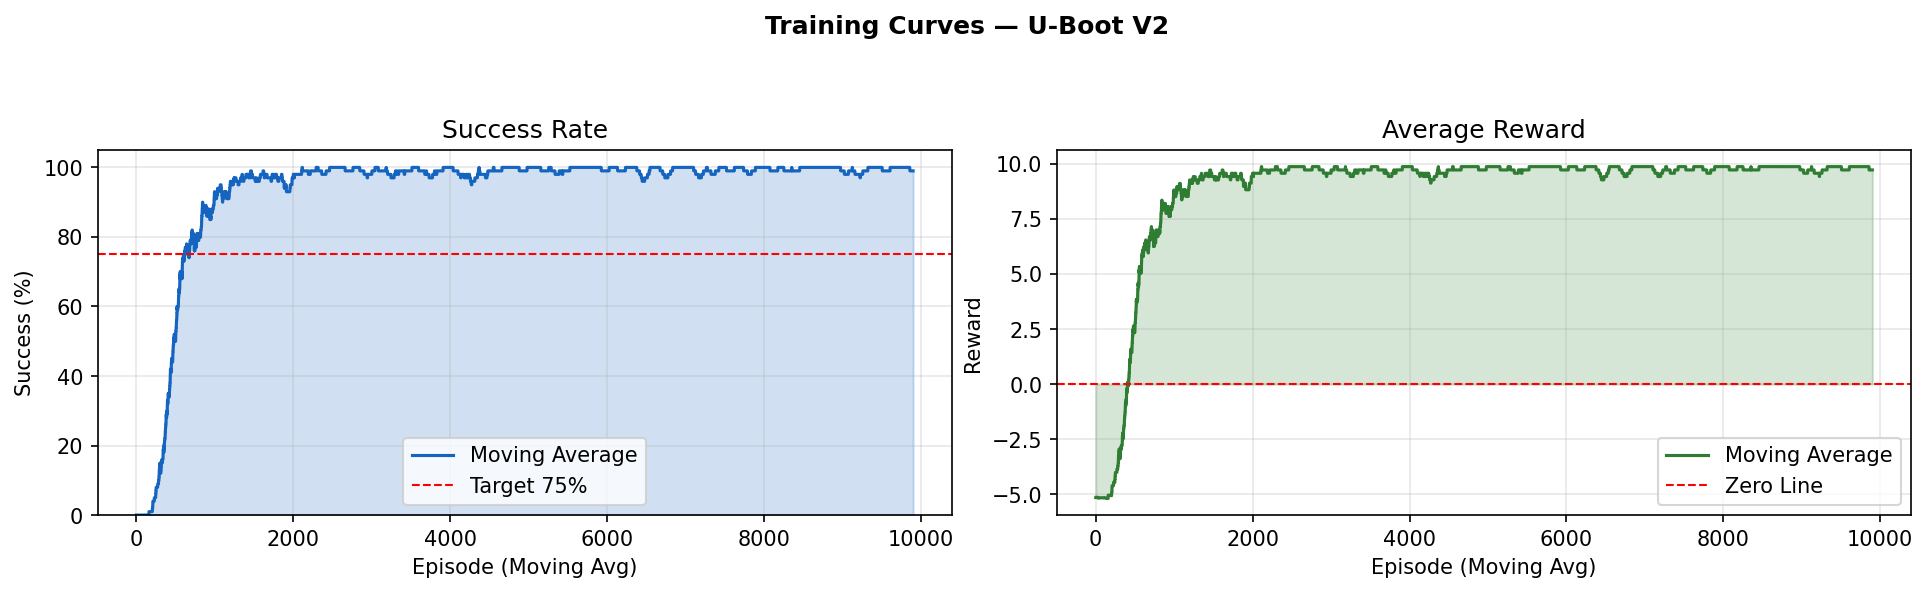
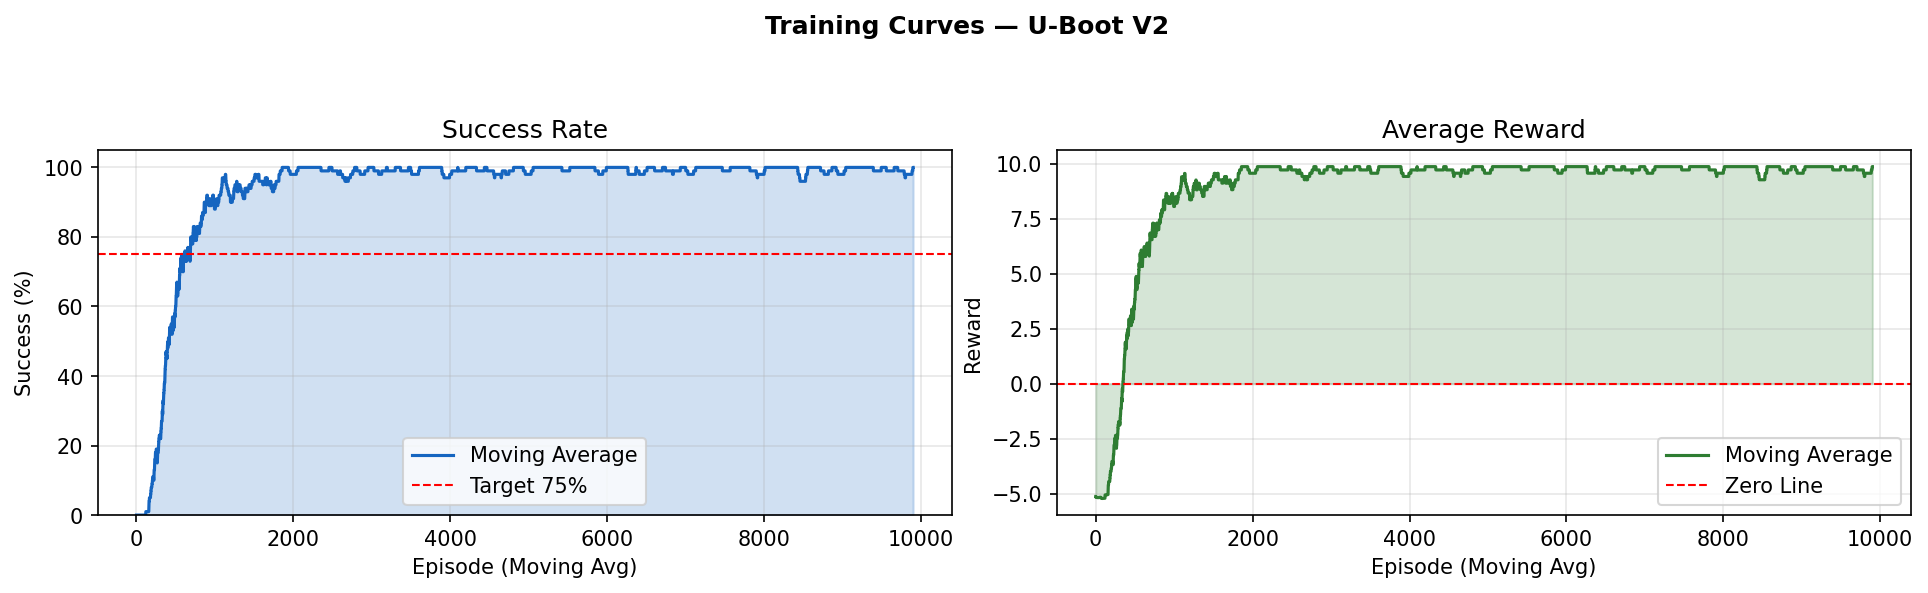
animation repair v2

diff --git a/utils/animation.py b/utils/animation.py
@@ -4,7 +4,7 @@ import matplotlib.animation as animation
 from matplotlib.gridspec import GridSpec
 import numpy as np
 
-from env.uboat_env import make_base_env
+from env.uboat_env import make_env, make_base_env
 from env.wrappers import ObsWrapper, RewWrapper, FuelWrapper
 from env.map_generator import generate_map
 
@@ -24,21 +24,14 @@ ICON_STYLE = {
 }
 
 
-def draw_map(ax):
+def draw_map(ax, grid_map):
     """
     Draws the static grid map on the given Matplotlib axes.
 
-    Generates a fixed map using ``generate_map`` with a constant seed,
-    then renders each cell as a colored rectangle and overlays the
-    corresponding icon symbol for special cells (mines, goal, start).
-
     Args:
         ax (matplotlib.axes.Axes): Axes object on which the map is drawn.
-            All previous content on the axes is preserved; new patches and
-            text artists are added on top.
+        grid_map (list[str]): The grid map to draw (same one used for the episode).
     """
-    static_map = generate_map(grid=GRID, density=0.15, seed=42)
-    
     ax.set(
         xlim=(-0.5, GRID - 0.5),
         ylim=(GRID - 0.5, -0.5),
@@ -55,7 +48,7 @@ def draw_map(ax):
         
     for r in range(GRID):
         for c in range(GRID):
-            cell_char = static_map[r][c]
+            cell_char = grid_map[r][c]
             ax.add_patch(
                 plt.Rectangle(
                     (c - 0.5, r - 0.5), 1, 1,
@@ -75,87 +68,85 @@ def draw_map(ax):
                 )
 
 
-def get_path(agent, idx=0):
+def get_path(agent, seed=None):
     """
     Runs a single episode with the given agent and records the trajectory.
 
-    Creates a fresh environment for each call (random seed), temporarily
-    raises the agent's exploration rate to ``0.15`` to introduce slight
-    stochasticity, and collects ``(row, col, success, failure)`` tuples
-    for every step until the episode ends or 60 steps are reached.
+    Uses make_env() with the given seed so the map is consistent with
+    what the agent learned. The wrapper order matches training exactly:
+    ObsWrapper -> RewWrapper -> FuelWrapper.
 
     Args:
         agent: Trained agent exposing an ``act(obs)`` method and an ``eps``
             attribute for the exploration rate.
-        idx (int, optional): Unused index kept for call-site consistency
-            when generating multiple paths. Defaults to 0.
+        seed (int, optional): Map seed. If None, a random seed is used.
 
     Returns:
-        list[tuple[int, int, bool, bool]]: Sequence of
-            ``(row, col, success, failure)`` tuples representing the
-            agent's trajectory. The first element is the starting position;
-            ``success`` and ``failure`` are ``True`` only on the terminal step.
+        tuple: (path, grid_map) where path is a list of
+            (row, col, success, failure) tuples and grid_map is the map
+            used in this episode (for drawing).
     """
-    base = make_base_env(seed=random.randint(0, 9999))
-    env = ObsWrapper(FuelWrapper(RewWrapper(base)))
-    
+    # FIX: use make_env() so the wrapper stack matches training exactly
+    # (ObsWrapper -> RewWrapper -> FuelWrapper)
+    env = make_env(seed=seed)
+    # Grab the map that was generated for this episode so we can draw it
+    grid_map = generate_map(grid=GRID, density=0.15, seed=seed)
+
     obs, _ = env.reset()
-    
+
     original_eps = getattr(agent, 'eps', 0.0)
-    agent.eps = 0.15
-    
-    raw_state = base.unwrapped.s
+    agent.eps = 0.0  # greedy during animation — show what the agent learned
+
+    base_env = env.unwrapped
+    raw_state = base_env.s
     path = [(raw_state // GRID, raw_state % GRID, False, False)]
-    
-    for _ in range(60): 
+
+    for _ in range(60):
         action = agent.act(obs)
         obs, reward, terminated, truncated, _ = env.step(action)
-        
-        raw_state = base.unwrapped.s
+
+        raw_state = base_env.s
         success = terminated and reward >= 5.0
-        failure = terminated and not success
-        
+        failure = (terminated and not success) or truncated
+
         path.append((raw_state // GRID, raw_state % GRID, success, failure))
-        
+
         if terminated or truncated:
             break
-            
+
     agent.eps = original_eps
     env.close()
-    return path
+    return path, grid_map
 
 
-def run_animation(agent, n=6):
+def run_animation(agent, n=6, seed=None):
     """
     Generates and displays an animated visualization of ``n`` agent missions.
 
-    Collects trajectory paths by running the agent through ``n`` independent
-    episodes, then renders a looping Matplotlib animation that shows:
-
-    - The submarine marker moving step-by-step along the recorded path.
-    - A color-coded trail fading behind the agent.
-    - A live status panel (mission index, step count, position, fuel bar,
-    torpedo bar, and legend).
-    - An overlay message (``"CONVOY SUNK!"`` or ``"U-BOOT SUNK!"``) at
-    the end of each mission.
-
-    Missions cycle automatically: after a short hold the map is redrawn
-    and the next mission begins.
+    All missions use the same seed (and therefore the same map) as training
+    so the agent navigates terrain it actually learned.
 
     Args:
         agent: Trained agent used to generate paths via ``get_path``.
             Must expose ``act(obs)`` and ``eps`` attributes.
         n (int, optional): Number of missions to generate and animate.
             Defaults to 6.
+        seed (int, optional): Map seed shared with training. All missions
+            reuse this seed so the map is consistent. If None, a single
+            random seed is chosen and reused for all missions.
 
     Returns:
         matplotlib.animation.FuncAnimation: The active animation object.
-            Keep a reference to this object to prevent garbage collection
-            while the window is open.
     """
+    if seed is None:
+        seed = random.randint(0, 9999)
+
     print(f"Generating {n} mission paths...")
-    paths = [get_path(agent, i) for i in range(n)]
-    
+    # FIX: all missions use the same seed — same map the agent was trained on
+    results = [get_path(agent, seed=seed) for _ in range(n)]
+    paths = [r[0] for r in results]
+    maps  = [r[1] for r in results]  # all identical (same seed), but kept per-mission for clarity
+
     for i, p in enumerate(paths):
         status = "SUCCESS" if p[-1][2] else "SUNK"
         print(f"  Mission {i+1}: {len(p)} steps -> {status}")
@@ -170,7 +161,7 @@ def run_animation(agent, n=6):
     for s in ax_info.spines.values():
         s.set_visible(False)
         
-    draw_map(ax_map)
+    draw_map(ax_map, maps[0])
 
     marker_sub, = ax_map.plot([], [], "s", ms=22, color="#FF5722", mec="white", mew=2, zorder=5)
     label_u = ax_map.text(0, 0, "U", ha="center", va="center", fontsize=11, color="white", fontweight="bold", zorder=6, visible=False)
@@ -197,37 +188,29 @@ def run_animation(agent, n=6):
     }
 
     def update(_):
-        """
-        Frame update callback for the FuncAnimation loop.
-
-        Advances the current mission by one step per call. When the path is
-        exhausted, a hold counter delays the transition before resetting to
-        the next mission and redrawing the map. On terminal steps, the result
-        overlay is shown and the step index is pinned to the end of the path
-        so the overlay persists during the hold period.
-
-        Args:
-            _ : Frame index supplied by FuncAnimation (unused).
-
-        Returns:
-            list: Matplotlib artists that were modified, enabling blitting
-                if supported by the backend.
-        """
         m_idx = state["mission_idx"]
         s_idx = state["step_idx"]
+
         path = paths[m_idx]
-        
+
         if s_idx >= len(path):
             state["hold_frames"] += 1
             if state["hold_frames"] > 12: 
+                # --- RESET PARA LA SIGUIENTE MISIÓN ---
                 state["mission_idx"] = (m_idx + 1) % n
                 state["step_idx"] = 0
                 state["hold_frames"] = 0
                 
+                # 1. Escondemos el cartel de resultado
                 text_result.set_visible(False)
                 text_result.get_bbox_patch().set_alpha(0)
-                draw_map(ax_map) 
+                
+                # 2. Limpiamos solo los datos de la estela y el submarino
+                # NO USAMOS ax_map.cla() para no borrar los artistas
                 line_trail.set_data([], [])
+                marker_sub.set_data([], [])
+                label_u.set_visible(False) 
+
             return [marker_sub, label_u, line_trail, text_result, title_text] + info_texts
 
         r, c, success, failed = path[s_idx]

diff --git a/env/wrappers.py b/env/wrappers.py
@@ -125,8 +125,11 @@ class RewWrapper(RewardWrapper):
                 modified reward.
         """
         obs, reward, terminated, truncated, info = self.env.step(action)
-        
-        if terminated:
+
+        # If FuelWrapper already set a penalty (fuel depleted), respect it
+        if info.get("fuel_depleted"):
+            new_reward = -2.0
+        elif terminated:
             if reward == 1.0:
                 new_reward = 10.0
             else:
@@ -137,9 +140,14 @@ class RewWrapper(RewardWrapper):
         return obs, new_reward, terminated, truncated, info
 
 
-class FuelWrapper(ActionWrapper):
+# FIX: inherit from Wrapper instead of ActionWrapper.
+# ActionWrapper.step() already calls self.action() internally, so inheriting
+# from it and also calling self.action() manually inside step() caused the
+# action to be transformed TWICE — the agent learned on transitions that never
+# actually happened, producing a garbage Q-table.
+class FuelWrapper(Wrapper):
     """
-    Action wrapper that introduces a fuel constraint for the agent.
+    Wrapper that introduces a fuel constraint for the agent.
 
     When fuel drops below 20% of its maximum value, upward (0) or leftward (3)
     movement actions are randomly redirected to downward (1) or rightward (2),
@@ -158,20 +166,10 @@ class FuelWrapper(ActionWrapper):
         self.max_fuel = fuel
         self.fuel = fuel
 
-    def action(self, action):
-        """
-        Modifies the action when fuel is critically low.
-
-        Args:
-            action (int): Original action selected by the policy.
-
-        Returns:
-            int: Possibly redirected action (1 or 2) if fuel is low and the
-                original action was 0 or 3; otherwise the original action
-                unchanged.
-        """
-        if self.fuel <= self.max_fuel * 0.2 and action in (0, 3): 
-            return random.choice([1, 2]) 
+    def _maybe_redirect(self, action):
+        """Redirects action when fuel is critically low."""
+        if self.fuel <= self.max_fuel * 0.2 and action in (0, 3):
+            return random.choice([1, 2])
         return action
 
     def reset(self, **kwargs):
@@ -191,8 +189,8 @@ class FuelWrapper(ActionWrapper):
 
     def step(self, action):
         """
-        Executes one step, decrements fuel by one unit, and applies the
-        critical-fuel logic.
+        Executes one step, decrements fuel, applies the critical-fuel redirect,
+        and truncates the episode if fuel is exhausted.
 
         Args:
             action (int): Action selected by the policy.
@@ -204,18 +202,19 @@ class FuelWrapper(ActionWrapper):
                 and the reward is ``-2.0``.
         """
         self.fuel -= 1
-        
-        modified_action = self.action(action)
-        
-        obs, reward, terminated, truncated, info = self.env.step(modified_action)
-        
+
+        # Apply redirection directly — no double-transform bug possible here
+        action = self._maybe_redirect(action)
+
+        obs, reward, terminated, truncated, info = self.env.step(action)
+
         if self.fuel <= 0 and not (terminated or truncated):
             truncated = True
-            reward = -2.0 
+            reward = -2.0
             info["fuel_depleted"] = True
         else:
             info["fuel_depleted"] = False
-            
+
         info["fuel_remaining"] = self.fuel
         return obs, reward, terminated, truncated, info
 

diff --git a/env/uboat_env.py b/env/uboat_env.py
@@ -41,10 +41,11 @@ def make_env(seed=None):
 
     1. ``ObsWrapper``  — transforms the discrete cell index into a
     continuous 4-feature observation vector.
-    2. ``FuelWrapper`` — introduces a fuel constraint that truncates the
-    episode when fuel is exhausted.
-    3. ``RewWrapper``  — replaces the sparse binary reward with a denser
+    2. ``RewWrapper``  — replaces the sparse binary reward with a denser
     reward scheme.
+    3. ``FuelWrapper`` — introduces a fuel constraint that truncates the
+    episode when fuel is exhausted. Placed on top so its -2.0 penalty
+    is not overwritten by RewWrapper.
 
     The same procedurally generated map is shared between the base
     environment and ``ObsWrapper`` to guarantee consistency.
@@ -65,7 +66,7 @@ def make_env(seed=None):
     env = make_base_env(seed=seed)
 
     env = ObsWrapper(env, grid_map=uboat_map)
-    env = FuelWrapper(env)
-    env = RewWrapper(env)
+    env = RewWrapper(env)   # FIX: RewWrapper before FuelWrapper so the fuel
+    env = FuelWrapper(env)  # penalty (-2.0) is not overwritten by RewWrapper
 
     return env

diff --git a/main.py b/main.py
@@ -11,7 +11,11 @@ if __name__ == "__main__":
     print("  U-BOOT V2")
     print("=" * 50)
 
-    env = Monitor(make_env())
+    # FIX: use a fixed seed so the agent always trains on the same map
+    # and the animation uses that exact same map
+    SEED = 42
+
+    env = Monitor(make_env(seed=SEED))
     agent = Agent()
 
     print("\nTraining (10,000 episodes)...")
@@ -23,4 +27,5 @@ if __name__ == "__main__":
     plot_training(reward_history, success_history)
     plt.close("all")
 
-    run_animation(agent)
+    # Pass the seed so the animation reuses the trained map
+    run_animation(agent, seed=SEED)
